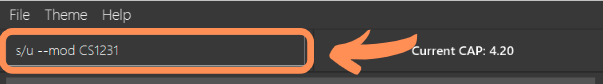
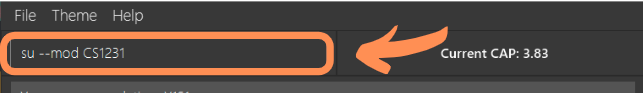
Update UG - su command

diff --git a/docs/UserGuide.md b/docs/UserGuide.md
@@ -147,18 +147,24 @@ To get recommendations on which modules to S/U:
 <img src="images/UG SS/2.7 Recommend SU 3.png" width="595px" height="336px">
 
 
-### S/U module: `s/u `
+### S/U module: `su `
 S/U a module in your modules list. \
  \
-Format: `s/u --mod MODULE_CODE` \
+Format: `su --mod MODULE_CODE` \
  \
 Examples:` `
-*   `s/u --mod CS1101S`
-*   `s/u --mod CS1231S`
+*   `su --mod CS1101S`
+*   `su --mod CS1231S`
 
 To S/U a module (e.g. CS1231):
-1. Type `s/u --mod CS1231` into the command box, and press Enter to execute it.
-<img src="images/UG SS/2.8 SU Module 1.png" width="603px" height="84px">
+1. Type `su --mod CS1231` into the command box, and press Enter to execute it.
+<img src="images/UG SS/2.8 SU Module 1.png" width="643px" height="93px">
+
+2. The result box will display the message (if the module can be S/U-ed):
+<img src="images/UG SS/2.8 SU Module 2.png" width="641px" height="171px">
+
+3. Check the module’s grade is changed to “SU” in the list below:
+<img src="images/UG SS/2.8 SU Module 3.png" width="642px" height="471px">
 
 ### Deleting: `delete`
 Deletes a module in your modules list. If a grade is provided, the grade of the mod will be deleted instead. \
